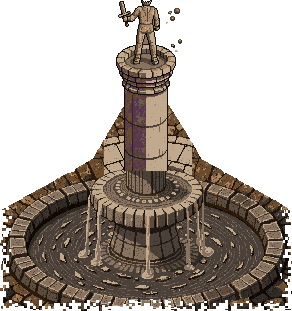
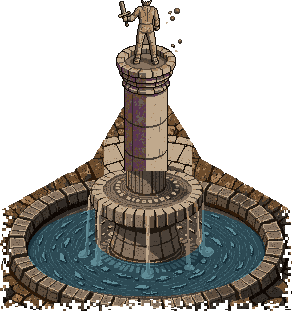
펠트 업그레이드 1단계: 분수에 물 (물결·물줄기·물소리 코드), 카메라 1.3배 (viewZoom 블록이 주석 안에 있어 안 먹던 것 고침), 노을 약하게·길 밝게·가장자리 덜 어둡게, 불 8개 깜빡임, 벤 노점 앞, 남문 「해 지면 문 닫음」, 그림 간판(임시 도형)
- tools/hd/build_felt.py: wet_fountain (마른 분수 → 물), road ×1.17 / plaza ×1.12, backdrop band .84, Ben NEAR (0,1), hd.live (fountain jets/pool, flick, signs, gateSign), viewZoom 1.3
- felt_live.js (new): code-drawn water/ripples/glints, flame flicker, shop picture signs, gate plank; positional water sound
- sfx_synth.js: SFX2.ambient(name, gain) looped bed
- world.js: optional FELT_LIVE hooks (props/over/grade/bgm), live signs skip the low sprite, camera zoom comment fix
- GAME_VER unchanged (saves kept)

Changed region(s): [[0.0925, 0.6656, 0.9247, 0.955]]

diff --git a/test128/world.js b/test128/world.js
@@ -386,7 +386,8 @@
       const sc = k / e.D, fx = d.x + e.dx, fy = d.y + e.dy, wl = fx - e.v.ax / e.D, wt = fy - e.v.ay / e.D, wr = wl + im.width / e.D;
       const behind = im.height / e.D > 28 && hero.y < fy && hero.y > wt + 6 && hero.x > wl + 4 && hero.x < wr - 4; d._a = (d._a ?? 1) + ((behind ? .5 : 1) - (d._a ?? 1)) * .2;
       const [sx, sy] = W2S(fx, fy); ctx.fillStyle = 'rgba(14,10,18,.3)'; ctx.beginPath(); ctx.ellipse(sx + 2 * k, sy - k, im.width * sc * .34, Math.max(2 * k, im.width * sc * .07), 0, 0, TAU); ctx.fill();
-      hdBlit(im, sx, sy, e.v.ax * sc, e.v.ay * sc, sc, e.flip, d._a); } }
+      hdBlit(im, sx, sy, e.v.ax * sc, e.v.ay * sc, sc, e.flip, d._a); }
+    if (FL()) for (const h of m.hds) if (h.live) FL().props(k, front, h, T); } // felt_live.js: fountain water, shop signs (code)
   function hdBlit(im, sx, sy, ax, ay, sc, flip, a) { // one picture at its foot point, no save/restore (owner 10-23 「최적화」: save/restore per prop was ~20 % of a frame)
     ctx.imageSmoothingEnabled = false; ctx.globalAlpha = a ?? 1; const X = Math.round(sx), Y = Math.round(sy), w = Math.round(im.width * sc), h = Math.round(im.height * sc);
     if (flip) { ctx.setTransform(-1, 0, 0, 1, X, Y); ctx.drawImage(im, -Math.round(ax), -Math.round(ay), w, h); ctx.setTransform(1, 0, 0, 1, 0, 0); } else ctx.drawImage(im, X - Math.round(ax), Y - Math.round(ay), w, h);
@@ -406,10 +407,11 @@
     const key = col + a + '|' + R; let c = LIGHTC[key]; if (c) return c; c = LIGHTC[key] = document.createElement('canvas'); c.width = c.height = R * 2; const g = c.getContext('2d'), gr = g.createRadialGradient(R, R, 0, R, R, R);
     const h = col.replace('#', ''), rr = parseInt(h.slice(0, 2), 16), gg = parseInt(h.slice(2, 4), 16), bb = parseInt(h.slice(4, 6), 16);
     gr.addColorStop(0, `rgba(${rr},${gg},${bb},${.32 * a})`); gr.addColorStop(.5, `rgba(${rr},${gg},${bb},${.12 * a})`); gr.addColorStop(1, `rgba(${rr},${gg},${bb},0)`); g.fillStyle = gr; g.fillRect(0, 0, R * 2, R * 2); return c; }
+  const FL = () => window.FELT_LIVE; // felt_live.js (owner 10-24 펠트 업그레이드), optional
   function drawHDLight(k) { const m = M(); if (!m || !m.hds) return; const v = S.view, T = m.T;
     for (const h of m.hds) { const [ox, oy] = W2S(h.gx * T, h.gy * T), im = HDIMG[h.ground], gw = im ? im.width / h.D * k : 0, gh = im ? im.height / h.D * k : 0;
       if (h.grade === 'dusk') { const ax = Math.max(ox, v.ox), ay = Math.max(oy, v.oy), bx = Math.min(ox + gw, v.ox + (EW + 1) * v.k), by = Math.min(oy + gh, v.oy + (EH + 1) * v.k);
-        if (bx > ax && by > ay) { ctx.save(); ctx.globalCompositeOperation = 'multiply'; ctx.fillStyle = 'rgb(206,196,222)'; ctx.fillRect(ax, ay, bx - ax, by - ay); ctx.restore(); } } // dusk: one grade over ground, props and characters alike
+        if (bx > ax && by > ay) { ctx.save(); ctx.globalCompositeOperation = 'multiply'; ctx.fillStyle = (FL() && FL().grade(h)) || 'rgb(206,196,222)'; ctx.fillRect(ax, ay, bx - ax, by - ay); ctx.restore(); } } // dusk: one grade over ground, props and characters alike
       if (h.webs) { ctx.save(); ctx.lineCap = 'round'; for (const [x1, y1, x2, y2, sag, al] of h.webs) { // 거미줄 실 (breadcrumbs toward the Arachne gate), swaying a little
         const [ax, ay] = W2S((h.gx + x1) * T, (h.gy + y1) * T), [bx, by] = W2S((h.gx + x2) * T, (h.gy + y2) * T), sw = Math.sin(S.t * 1.3 + x1) * .6 * k;
         ctx.strokeStyle = `rgba(226,224,236,${al ?? .55})`; ctx.lineWidth = Math.max(1, k / 3); ctx.beginPath(); ctx.moveTo(ax, ay); ctx.quadraticCurveTo((ax + bx) / 2 + sw, (ay + by) / 2 + (sag || 1) * T * k / 2, bx, by); ctx.stroke(); }
@@ -419,6 +421,7 @@
           for (let x = x0; x <= x1; x++) for (let j = 0; j < 2; j++) { const hsh = Math.sin((x * 12.9 + y * 78.2 + j * 37.7)) * 43758.5, f = hsh - Math.floor(hsh), u = (f * T + ph * (1 + f)) % T, a = Math.sin(S.t * 1.7 + f * 6.3);
             if (a < .2) continue; const [sx, sy2] = W2S((h.gx + x) * T + u, (h.gy + y) * T + 3 + j * 8 + f * 3); ctx.fillRect(Math.round(sx), Math.round(sy2), Math.round((2 + 3 * a) * k), Math.max(1, Math.round(k * .5))); } }
         ctx.restore(); }
+      if (h.live && FL()) FL().over(k, h, T); // felt_live.js: flames that breathe (code)
       if (h.phase2) { const b = S.bossRef, on = S.roomP2 !== undefined ? +S.roomP2 : b && !b.dead && b.phase === 2 ? 1 : 0; h._p2 = (h._p2 || 0) + (on - (h._p2 || 0)) * (S.roomP2Rate || .025); const p = h._p2; // turns with the boss' roar ('boss-phase' event), unravels on 'boss-dead' // 보스 2페이즈: the room turns (red threads close in, light goes red, cocoons sway overhead)
         if (p > .01) { const P = h.phase2; ctx.save(); ctx.globalCompositeOperation = 'multiply'; ctx.fillStyle = `rgba(${Math.round(255 - 30 * p)},${Math.round(255 - 40 * p)},${Math.round(255 - 36 * p)},1)`; ctx.fillRect(v.ox, v.oy, (EW + 1) * v.k, (EH + 1) * v.k); ctx.restore(); // floor keeps ~85 % of its stone colour: the red telegraphs must stay the brightest red (team lead)
           ctx.save(); ctx.globalCompositeOperation = 'lighter'; const seen = new Set(); for (const [x1, y1, x2, y2] of P.threads || []) for (const [x, y] of [[x1, y1], [x2, y2]]) { const key = x + ',' + y; if (seen.has(key)) continue; seen.add(key); // red only where the threads are tied (pillars, walls)
@@ -890,7 +893,7 @@
       if (f.type === 'heart' && Math.hypot(hero.x - f.x, hero.y - f.y) < 10) { const hv = Math.ceil(hero.maxHp * POT.heartPct / 100); hero.hp = Math.min(hero.maxHp, hero.hp + hv); syncTownHp(); addFx('text', f.x, f.y - 20, { text: '+' + hv, life: .7, color: '#ff8aa0' }); sfx('heart', .7); S.fx.splice(i, 1); continue; }
       if (f.t > f.life) S.fx.splice(i, 1); }
     // music: area theme / champion battle / boss (phase 2 track) / back to area theme after the clear
-    const e = S.engaged, arM = m.compose ? areaOf(m, hero.x, hero.y) : null; let want = (arM && arM.bgm) || m.bgm;
+    const e = S.engaged, arM = m.compose ? areaOf(m, hero.x, hero.y) : null; let want = (arM && arM.bgm) || m.bgm; if (FL()) want = FL().bgm(want, m, arM);
     if (m.type === 'boss') want = S.bossRef && !S.bossRef.dead ? (S.bossRef.phase === 2 ? m.bgm2 : m.bgm) : (m.bgmAfter || 'area01_forest');
     else if (e && !e.dead && e.D.champion && dist(e, hero) < 260) want = (arM && arM.battleBgm) || m.battleBgm || 'battle_champion';
     S.bgm = want;
@@ -1009,7 +1012,7 @@
   function camTarget() { const m = M(), b = S.introT > 0 && S.bossRef, L = !b && FEEL2 && S.look ? S.look : [0, 0], fx = b ? b.x : hero.x + L[0], fy = b ? b.y - 20 : hero.y - 10 + L[1]; return [clampC(fx - EW / 2, m.pw - EW), clampC(fy - EH / 2, m.ph - EH)]; } // boss intro: the camera looks at the boss first (art room 10-23)
   function snapCam() { if (M()) S.cam = camTarget(); }
   function viewZoomOf(m) { if (m && m.compose) { const a = areaOf(m, hero.x, hero.y); return (a && a.zoom) || 1; } return (m && m.viewZoom) || 1; }
-  function updateCam(dt) { if (!M()) return; { const v = FACEV[hero.face] || [0, 0], d = hero.moving && !hero.atk ? (hero.run ? LOOK.run : LOOK.walk) : 0, k = Math.min(1, dt * LOOK.k); S.look = S.look || [0, 0]; S.look[0] += (v[0] * d - S.look[0]) * k; S.look[1] += (v[1] * d * .7 - S.look[1]) * k; if (S.kick && !(S.freezeT > 0)) S.kick.t -= dt; } // look-ahead + hit kick clock { const t = viewZoomOf(M()); S.vz = S.vz || t; S.vz += (t - S.vz) * Math.min(1, dt * 2.5); if (Math.abs(t - S.vz) < .002) S.vz = t; EW = Math.ceil(LW / S.vz); EH = Math.ceil(LH / S.vz); } // town view: a little wider, eased at the area seam
+  function updateCam(dt) { if (!M()) return; { const v = FACEV[hero.face] || [0, 0], d = hero.moving && !hero.atk ? (hero.run ? LOOK.run : LOOK.walk) : 0, k = Math.min(1, dt * LOOK.k); S.look = S.look || [0, 0]; S.look[0] += (v[0] * d - S.look[0]) * k; S.look[1] += (v[1] * d * .7 - S.look[1]) * k; if (S.kick && !(S.freezeT > 0)) S.kick.t -= dt; } /* look-ahead + hit kick clock (the zoom block below sat inside this comment since 95da13a1: viewZoom never applied) */ { const t = viewZoomOf(M()); S.vz = S.vz || t; S.vz += (t - S.vz) * Math.min(1, dt * 2.5); if (Math.abs(t - S.vz) < .002) S.vz = t; EW = Math.ceil(LW / S.vz); EH = Math.ceil(LH / S.vz); } // town view: a little wider, eased at the area seam
     if (S.introT > 0) S.introT -= dt; const [tx, ty] = camTarget(); const k = 1 - Math.pow(S.introT > 0 ? .02 : .0005, dt); S.cam[0] += (tx - S.cam[0]) * k; S.cam[1] += (ty - S.cam[1]) * k; }
 
   // ---------------- render: low-res world, then display-res text/HUD ----------------
@@ -1058,7 +1061,7 @@
     for (const o of m.objs) {
       if (o.type === 'chest') list.push({ y: o.y + 6, f: () => drawSpr(g, SAVE.chests[o.id] ? 'chest_open' : 'chest', o.x, o.y + 7) });
       if (o.type === 'secret_wall' && SAVE.flags[o.flag]) list.push({ y: o.y - 9, f: () => { g.fillStyle = '#0b0806'; g.fillRect(o.x - 7, o.y - 9, 14, 17); g.fillStyle = '#3e362e'; for (const [dx, dy] of [[-7, 6], [-3, 7], [4, 6], [6, 7], [0, 8]]) g.fillRect(o.x + dx, o.y + dy, 2, 1); } }); // the broken wall: a dark gap + rubble
-      if (o.type === 'sign') list.push({ y: o.y + 6, f: () => drawSpr(g, 'sign', o.x, o.y + 8) });
+      if (o.type === 'sign' && !o.live) list.push({ y: o.y + 6, f: () => drawSpr(g, 'sign', o.x, o.y + 8) });
       if (o.type === 'heal') list.push({ y: o.y + 6, f: () => drawBench(g, o) });
       if (o.type === 'door_deco') list.push({ y: o.y - 8, f: () => drawSpr(g, o.sprite, o.x, o.y + 8) });
       if (o.type === 'hidden' && !SAVE.chests[o.id] && Math.sin(S.t * 3 + o.x) > .8) list.push({ y: o.y, f: () => { g.fillStyle = '#fff8c0'; g.fillRect(o.x - 1, o.y - 7, 2, 3); g.fillRect(o.x - 3, o.y - 6, 6, 1); } });

diff --git a/test128/felt_live.js b/test128/felt_live.js
@@ -1,0 +1,70 @@
+/* felt_live.js — Felt's live layer (owner 10-24 「펠트 업그레이드」): everything here is drawn by code each frame, nothing is baked.
+ *  - fountain: falling streams + rings + drifting glints over the (now wet) basin, and a quiet looping water sound by distance (SFX2.ambient)
+ *  - flicker: 5-8 flames (brazier, forge, plaza lamps, chapel candles) breathe on top of the baked light pools
+ *  - picture signs over the shops, the south gate's 「해 지면 문 닫음」 plank
+ * Data = maps/felt.json hd.live (written by tools/hd/build_felt.py). world.js calls FELT_LIVE.props / .over / .grade / .bgm. */
+(function () {
+  'use strict';
+  const TAU = Math.PI * 2, W = () => window.__worldHooks;
+  let lastSound = 0;
+  const hash = n => { const x = Math.sin(n * 127.1) * 43758.5453; return x - Math.floor(x); };
+  const noise = (t, s) => .5 + .27 * Math.sin(t * 7.3 + s) + .15 * Math.sin(t * 13.1 + s * 2.7) + .08 * Math.sin(t * 23.7 + s * 5.1); // flame: 3 sines, never in step
+  // fountain picture px -> world px
+  function fpx(h, F, px, py, T) { return [(h.gx + F.x) * T + (px - F.ax) / F.D, (h.gy + F.y) * T + (py - F.ay) / F.D]; }
+  function fountainProp(h) { return h._fq || (h._fq = (h.props || []).find(q => q.id === 'fountain')); }
+  function drawFountain(k, h, T) { const w = W(), ctx = w.ctx, S = w.S, F = h.live.fountain, q = fountainProp(h), a0 = q && q._a !== undefined ? q._a : 1, t = S.t;
+    const [cx, cy] = fpx(h, F, F.pool[0], F.pool[1], T), rx = F.pool[2] / F.D, ry = F.pool[3] / F.D, [sx, sy] = w.W2S(cx, cy);
+    if (sx < -200 * k || sy < -200 * k || sx > innerWidth * 3 || sy > innerHeight * 3) return;
+    const [px, py] = w.W2S(...fpx(h, F, F.ped[0], F.ped[1], T)), prx = F.ped[2] / F.D * k, pry = F.ped[3] / F.D * k;
+    ctx.save(); ctx.globalAlpha = a0; ctx.beginPath(); ctx.ellipse(sx, sy, rx * k, ry * k, 0, 0, TAU); ctx.clip(); // stay inside the basin, off the pedestal
+    ctx.beginPath(); ctx.rect(sx - rx * k - 4, sy - ry * k - 4, rx * 2 * k + 8, ry * 2 * k + 8); ctx.ellipse(px, py, prx, pry, 0, 0, TAU); ctx.rect(px - prx, py - 200 * k, prx * 2, 200 * k); ctx.clip('evenodd');
+    ctx.lineWidth = Math.max(1, k * .5);
+    for (const [jx, , jb] of F.jets) { const [bx, by] = w.W2S(...fpx(h, F, jx, jb, T)); // rings spreading where each stream lands
+      for (let i = 0; i < 3; i++) { const ph = (t * .55 + i / 3 + jx * .013) % 1, r = (1.5 + ph * 9) * k; ctx.strokeStyle = `rgba(200,226,232,${(.5 * (1 - ph)).toFixed(3)})`; ctx.beginPath(); ctx.ellipse(bx, by, r, r * .38, 0, 0, TAU); ctx.stroke(); } }
+    ctx.fillStyle = 'rgba(214,236,240,.55)'; for (let i = 0; i < 34; i++) { // glints drifting round the basin
+      const f = hash(i), rr = .35 + .6 * hash(i + 50), ang = f * TAU + t * (.12 + .1 * hash(i + 9)) * (i % 2 ? 1 : -1), tw = Math.sin(t * 2.3 + i * 1.7); if (tw < .15) continue;
+      const gx = sx + Math.cos(ang) * rx * rr * k, gy = sy + Math.sin(ang) * ry * rr * k; ctx.fillRect(Math.round(gx), Math.round(gy), Math.round((1.5 + 2.5 * tw) * k), Math.max(1, Math.round(k * .45))); }
+    ctx.restore();
+    ctx.save(); ctx.globalAlpha = a0; ctx.lineCap = 'round'; // falling streams (over the pedestal's lip, in front of it)
+    for (const [jx, jt, jb] of F.jets) { const [ax, ay] = w.W2S(...fpx(h, F, jx, jt, T)), [, by] = w.W2S(...fpx(h, F, jx, jb, T)), L = by - ay;
+      ctx.strokeStyle = 'rgba(170,206,216,.42)'; ctx.lineWidth = Math.max(1, k * .9); ctx.beginPath(); ctx.moveTo(ax, ay); ctx.lineTo(ax, by); ctx.stroke();
+      ctx.fillStyle = 'rgba(232,246,250,.85)'; for (let i = 0; i < 4; i++) { const ph = (t * 1.6 + i / 4 + jx * .07) % 1, yy = ay + L * ph * ph; ctx.fillRect(Math.round(ax - k * .4), Math.round(yy), Math.max(1, Math.round(k * .8)), Math.round(k * (1.2 + ph * 1.6))); }
+      ctx.fillStyle = 'rgba(232,246,250,.6)'; for (let i = 0; i < 3; i++) { const ph = (t * 2.2 + i / 3 + jx) % 1, dx = (hash(i + jx) - .5) * 5 * k * ph; ctx.fillRect(Math.round(ax + dx), Math.round(by - ph * (1 - ph) * 9 * k), Math.max(1, Math.round(k * .6)), Math.max(1, Math.round(k * .6))); } } // splash
+    ctx.restore();
+    // water sound: louder near the basin (quiet: a background murmur, never over the music)
+    const hero = w.hero, d = Math.hypot(hero.x - cx, hero.y - cy), g = Math.max(0, 1 - d / 170); lastSound = performance.now();
+    if (window.SFX2 && SFX2.ambient) SFX2.ambient('water', .32 * g * g); }
+  setInterval(() => { if (performance.now() - lastSound > 400 && window.SFX2 && SFX2.ambient) SFX2.ambient('water', 0); }, 300); // left Felt / paused: fade out
+  // picture signs (placeholders: a plank + a code icon) — swapped for art via hd.live.signs later
+  function icon(ctx, kind, x, y, u) { ctx.fillStyle = '#e8d6b0'; const R = (a, b, c, d) => ctx.fillRect(Math.round(x + a * u), Math.round(y + b * u), Math.max(1, Math.round(c * u)), Math.max(1, Math.round(d * u)));
+    if (kind === 'sword') { R(-.4, -3, .8, 4.6); R(-1.6, 1.4, 3.2, .7); R(-.4, 2.1, .8, 1.3); }
+    else if (kind === 'bag') { R(-2, -1, 4, 3.6); R(-1, -2.2, 2, 1.2); ctx.fillStyle = '#5a3a22'; R(-.4, .2, .8, 1.2); }
+    else if (kind === 'leaf') { ctx.fillStyle = '#9fc070'; ctx.beginPath(); ctx.ellipse(x, y, 1.6 * u, 3 * u, .6, 0, TAU); ctx.fill(); ctx.fillStyle = '#4d5a2c'; R(-.2, -2, .4, 4); }
+    else if (kind === 'mug') { R(-1.8, -2, 3, 4.2); R(1.2, -1, 1.2, .6); R(1.8, -1, .6, 2.2); R(1.2, .8, 1.2, .6); ctx.fillStyle = '#fff6dc'; R(-1.8, -2.6, 3, .8); }
+    else if (kind === 'anvil') { R(-2.6, -1.4, 5.2, 1.4); R(-1, 0, 2, 1.4); R(-2, 1.4, 4, 1); }
+    else if (kind === 'needle') { R(-.3, -3, .6, 6); ctx.strokeStyle = '#d04a4a'; ctx.lineWidth = Math.max(1, u * .5); ctx.beginPath(); ctx.moveTo(x, y - 2.4 * u); ctx.quadraticCurveTo(x + 3 * u, y - 1 * u, x + 1.5 * u, y + 2.5 * u); ctx.stroke(); } }
+  function plank(ctx, sx, sy, k, wpx, hpx, sway) { ctx.fillStyle = 'rgba(14,10,18,.35)'; ctx.fillRect(Math.round(sx - wpx / 2 * k + k), Math.round(sy + k), Math.round(wpx * k), Math.round(hpx * k));
+    ctx.fillStyle = '#5a3a22'; ctx.fillRect(Math.round(sx - wpx / 2 * k), Math.round(sy), Math.round(wpx * k), Math.round(hpx * k)); ctx.fillStyle = '#76583a'; ctx.fillRect(Math.round(sx - wpx / 2 * k), Math.round(sy), Math.round(wpx * k), Math.max(1, Math.round(k)));
+    ctx.fillStyle = '#2e2318'; ctx.fillRect(Math.round(sx - wpx / 2 * k), Math.round(sy + (hpx - 1) * k), Math.round(wpx * k), Math.max(1, Math.round(k))); }
+  function drawSigns(k, front, h, T) { const w = W(), ctx = w.ctx, S = w.S, hero = w.hero;
+    for (const [x, y, kind] of h.live.signs || []) { const wx = (h.gx + x) * T, wy = (h.gy + y) * T; if ((wy > hero.y) !== !!front) continue; const [sx, sy] = w.W2S(wx, wy), sw = Math.sin(S.t * 1.1 + x) * .5 * k;
+      ctx.fillStyle = '#2e2318'; ctx.fillRect(Math.round(sx - 5 * k), Math.round(sy - 14 * k), Math.round(10 * k), Math.max(1, Math.round(k * .8))); // bracket
+      ctx.save(); ctx.translate(sx + sw, sy - 13 * k); plank(ctx, 0, 0, k, 9, 9, 0); icon(ctx, kind, 0, 4.5 * k, k * .9); ctx.restore(); }
+    const G = h.live.gateSign; if (G) { const wx = (h.gx + G[0]) * T, wy = (h.gy + G[1]) * T; if ((wy > hero.y) === !!front) { const [sx, sy] = w.W2S(wx, wy); // 남문 plank: 「해 지면 문 닫음」
+      ctx.fillStyle = '#2e2318'; ctx.fillRect(Math.round(sx - 14 * k), Math.round(sy - 13 * k), Math.max(1, Math.round(k)), Math.round(13 * k)); ctx.fillRect(Math.round(sx + 13 * k), Math.round(sy - 13 * k), Math.max(1, Math.round(k)), Math.round(13 * k)); // two nails/legs
+      plank(ctx, sx, sy - 19 * k, k, 40, 10); ctx.fillStyle = '#9a7a52'; ctx.fillRect(Math.round(sx - 19 * k), Math.round(sy - 18 * k), Math.round(38 * k), Math.round(8 * k)); ctx.fillStyle = '#24180e'; ctx.font = `bold ${Math.max(6, Math.round(5 * k))}px sans-serif`; ctx.textAlign = 'center'; ctx.textBaseline = 'middle'; ctx.fillText('해 지면 문 닫음', sx, sy - 13.8 * k); ctx.textAlign = 'left'; ctx.textBaseline = 'alphabetic'; } } }
+  // flames: a glow that breathes over the baked pool + a small bright core
+  const GL = {}; function glow(col) { if (GL[col]) return GL[col]; const c = GL[col] = document.createElement('canvas'); c.width = c.height = 64; const g = c.getContext('2d'), gr = g.createRadialGradient(32, 32, 0, 32, 32, 32);
+    const r = parseInt(col.slice(1, 3), 16), gg = parseInt(col.slice(3, 5), 16), b = parseInt(col.slice(5, 7), 16); gr.addColorStop(0, `rgba(${r},${gg},${b},.55)`); gr.addColorStop(.4, `rgba(${r},${gg},${b},.18)`); gr.addColorStop(1, `rgba(${r},${gg},${b},0)`); g.fillStyle = gr; g.fillRect(0, 0, 64, 64); return c; }
+  function drawFlick(k, h, T, boost) { const w = W(), ctx = w.ctx, S = w.S; ctx.save(); ctx.globalCompositeOperation = 'lighter';
+    for (const [i, [x, y, r, col, a]] of (h.live.flick || []).entries()) { const n = noise(S.t, i * 3.1), [sx, sy] = w.W2S((h.gx + x) * T, (h.gy + y) * T), R = r * k * (.85 + .3 * n);
+      ctx.globalAlpha = Math.min(1, a * (.25 + .55 * n) * (boost || 1)); ctx.drawImage(glow(col), sx - R, sy - R * .8, R * 2, R * 1.6);
+      ctx.globalAlpha = Math.min(1, a * (.5 + .5 * n)); ctx.drawImage(glow('#fff0c0'), sx - 3 * k, sy - 3.5 * k - n * k, 6 * k, 6 * k); }
+    ctx.restore(); }
+  window.FELT_LIVE = {
+    props(k, front, h, T) { if (!h.live) return; if (!front && h.live.fountain) drawFountain(k, h, T); drawSigns(k, front, h, T); },
+    over(k, h, T) { if (!h.live) return; drawFlick(k, h, T, 1); },
+    grade(h) { return h.live ? 'rgb(224,216,232)' : null; },   // Felt's dusk grade: weaker than the old rgb(206,196,222) (owner 10-24 「노을 약하게」)
+    bgm(want) { return want; },
+  };
+})();

diff --git a/test128/sfx_synth.js b/test128/sfx_synth.js
@@ -49,5 +49,13 @@
     voice(ac, master, noiseBuf, k, vol, rate, now); }
   function render(list, secs) { const sr = 44100, oc = new OfflineAudioContext(1, Math.ceil(sr * secs), sr), m = oc.createGain(); m.gain.value = .45; m.connect(oc.destination); const nb = mkNoise(oc);
     for (const [k, t, v] of list) voice(oc, m, nb, k, v || 1, 1, t); return oc.startRendering().then(b => Array.from(b.getChannelData(0))); }
-  window.SFX2 = { play, setVol(v) { vol = Math.max(0, Math.min(1, v)); if (master) master.gain.value = .45 * vol; }, get vol() { return vol; }, render, has: k => !!DEF[k], names: Object.keys(DEF), get ready() { return !!ac; } };
+  // looped ambient beds (owner 10-24 펠트 「분수 물소리」): one per name, built on first use, level eased (no clicks); 0 = silent but kept
+  const AMB = {};
+  function ambient(name, g) { if (OFF || !ac || !noiseBuf) return; let a = AMB[name];
+    if (!a) { if (!(g > 0)) return; const src = ac.createBufferSource(); src.buffer = noiseBuf; src.loop = true; src.playbackRate.value = .5;
+      const lp = ac.createBiquadFilter(); lp.type = 'lowpass'; lp.frequency.value = 900; const pk = ac.createBiquadFilter(); pk.type = 'peaking'; pk.frequency.value = 2600; pk.Q.value = 1.4; pk.gain.value = 5;  // water: dark rush + a soft splash band
+      const lfo = ac.createOscillator(), lg = ac.createGain(); lfo.frequency.value = .23; lg.gain.value = 260; lfo.connect(lg); lg.connect(lp.frequency); lfo.start();
+      const out = ac.createGain(); out.gain.value = 0; src.connect(lp); lp.connect(pk); pk.connect(out); out.connect(master); src.start(); a = AMB[name] = { out, g: 0 }; }
+    g = Math.max(0, Math.min(1, g || 0)); if (Math.abs(g - a.g) < .005) return; a.g = g; a.out.gain.setTargetAtTime(g * .5, ac.currentTime, .25); }
+  window.SFX2 = { play, ambient, setVol(v) { vol = Math.max(0, Math.min(1, v)); if (master) master.gain.value = .45 * vol; }, get vol() { return vol; }, render, has: k => !!DEF[k], names: Object.keys(DEF), get ready() { return !!ac; } };
 })();

diff --git a/test128/index.html b/test128/index.html
@@ -1977,7 +1977,7 @@ Promise.all(jobs).then(()=>{
 <script>__js("title.js")</script><!-- [title] title screen + title BGM (town/title.js) -->
 <!-- [world] outside world: scene manager, Ys-style connected fields, dungeon, boss, minimap/map screen/route guide (world.js, world_mobs.js, world_nav.js, maps/*.json; see WORLD.md) -->
 <script>__js("sfx_synth.js")</script><!-- code-made combat SFX (field/dungeon) -->
-<script>__js("world_mobs.js")</script><script>__js("world_nav.js")</script><script>__js("world.js")</script>
+<script>__js("world_mobs.js")</script><script>__js("world_nav.js")</script><script>__js("world.js")</script><script>__js("felt_live.js")</script>
 <script>__js("tachie.js")</script><!-- [tachie] full-body dialogue portraits (town/tachie.js, assets/tachie) -->
 </body>
 </html>

diff --git a/test128/tools/hd/build_felt.py b/test128/tools/hd/build_felt.py
@@ -1,6 +1,6 @@
 """Felt v4 = the Grok composition built from the town-art room's final D=3 parts (owner 10-23 「그록 그림 대표」 + credits approved).
 Parts: handoff/claude/felt_grok_build/final/ (the town-art room) -> copied to assets/world/felt/ (fixed here, 0 credits):
-  fountain water darkened (canon = dry cracked fountain), the "o305" text on the weapon-shop sign wiped, the baked-in villager in front of the
+  fountain pool wet again (owner 10-24 펠트 업그레이드: 물이 도는 분수; ripples / falling water = code in felt_live.js), the "o305" text on the weapon-shop sign wiped, the baked-in villager in front of the
   general store hidden behind a well. Places = grok_foot x 0.56 world px (the parts are drawn at 0.7 x Grok size, so the gaps shrink with them).
 Ground = code (palette.json colours): packed-dirt roads traced from the key art as polylines, a cobbled plaza ring, dark earth with dead
   grass, a fenced grave lawn. Solid = each picture's bottom opaque width. Doors / marks / NPCs / clues / waystones / signs follow felt.json
@@ -23,12 +23,13 @@ rnd = random.Random(7)
 # ---------- parts (copy + 0-credit fixes) ----------
 def load(pid): return Image.open(os.path.join(SRC, PJ[pid]['img'])).convert('RGBA')
 IM = {pid: load(pid) for pid in PJ}
-def dry_fountain(im):   # (unused since the art room's statue fountain is dry)                               # blue water -> dark still water / cracked basin (colours from palette base24 + accent #2f4a52)
-    a = np.asarray(im).astype(float); r, g, b, al = a[..., 0], a[..., 1], a[..., 2], a[..., 3]
-    blue = (b > r + 18) & (b > g - 4) & (al > 0); L = (.3 * r + .59 * g + .11 * b) / 255
-    dark = np.array([23, 17, 12.]); teal = np.array([47, 74, 82.]); mud = np.array([62, 54, 46.])
-    t = np.clip((L - .25) / .6, 0, 1)[..., None]; col = dark * (1 - t) + np.where(t > .55, mud, teal) * t
-    a[..., :3] = np.where(blue[..., None], col, a[..., :3]); return Image.fromarray(a.clip(0, 255).astype(np.uint8), 'RGBA')
+def wet_fountain(im):   # owner 10-24 「분수 물」: the art room's dry, cracked basin -> still dark-teal water (shade kept from the picture); jets / ripples move in code (felt_live.js)
+    a = np.asarray(im).astype(float); h, w = a.shape[:2]; yy, xx = np.mgrid[0:h, 0:w]
+    r, g, b, al = a[..., 0], a[..., 1], a[..., 2], a[..., 3]; L = (.3 * r + .59 * g + .11 * b) / 255
+    pool = (((xx - 146) / 119.) ** 2 + ((yy - 250) / 46.) ** 2 < 1) & (al > 0)                       # basin (picture px), the pedestal cut out
+    ped = (((xx - 148) / 54.) ** 2 + ((yy - 236) / 27.) ** 2 < 1) | ((yy < 236) & (np.abs(xx - 148) < 54))
+    dark, light = np.array([22, 44, 54.]), np.array([96, 140, 150.]); t = np.clip((L - .12) / .45, 0, 1)[..., None]
+    a[..., :3] = np.where((pool & ~ped)[..., None], dark * (1 - t) + light * t, a[..., :3]); return Image.fromarray(a.clip(0, 255).astype(np.uint8), 'RGBA')
 def wipe_sign(im, box=(73, 116, 123, 137)):         # "o305" -> blank wooden plate
     a = np.asarray(im).copy(); x0, y0, x1, y1 = box; p = a[y0:y1, x0:x1, :3].astype(int); L = p.sum(2)
     base = np.median(p[L < np.percentile(L, 45)], 0).astype(np.uint8); hi = L > np.percentile(L, 45)
@@ -42,7 +43,7 @@ def ragged(im, r=14):                               # cut sides (opaque right up
         if edge.mean() > .12: dist = np.minimum(dist, d)
     keep = np.clip(dist / r + (nz - .5) * .9, 0, 1) > .35
     a[..., 3] = np.where(keep, a[..., 3], 0); return Image.fromarray(a, 'RGBA')
-IM['fountain'] = dry_fountain(IM['fountain'])
+IM['fountain'] = wet_fountain(IM['fountain'])
 for pid in IM:
     if PJ[pid].get('kind') == 'building' and pid not in ('linette', 'bl_house'): IM[pid] = ragged(IM[pid]); IM['west_a'] = wipe_sign(IM['west_a'])
 
@@ -131,16 +132,17 @@ img[yard] = np.where((n3[yard] > .45)[:, None], cols['g1'], np.where((n2[yard] >
 road = dr < 0; rim = (dr >= 0) & (dr < 3)
 rv = n2 * .7 + n3 * .3; t = np.clip((rv[road] - .25) / .55, 0, 1)[:, None]; img[road] = cols['r2'] * (1 - t) + cols['r3'] * t   # soft packed dirt
 img[rim] = cols['r0']; peb = road & (n3 > .8) & (vnoise(1.2, 4) > .7); img[peb] = cols['r5']; img[road & (vnoise(1.5, 5) > .86)] = cols['d4']
+img[road | rim] *= 1.17                                                    # owner 10-24: paths 15-20 % brighter (the roads read from the dirt)
 # plaza: cobble ring (stone cells by jittered grid), mortar in between, inner basin ring stones
 cell = 4.0; jx, jy = vnoise(4, 6) * 1.6, vnoise(4, 7) * 1.6
 cx, cy = (wxp + jx) / cell, (wyp + (np.floor((wxp + jx) / cell) % 2) * cell / 2 + jy) / cell
 fx, fy = cx - np.floor(cx), cy - np.floor(cy); mort = (fx < .16) | (fy < .2); shade = vnoise(cell, 8)
 plaza = pr < 1 + (n2 - .5) * .12
 stone = sel([shade < .35, shade < .6, shade < .82], [cols['s1'], cols['s2'], cols['s3']], cols['s4'])
-img[plaza] = np.where(mort[plaza][:, None], cols['s0'], stone[plaza]); img[plaza & (pr > .9) & (pr < .97)] = cols['s0']
+img[plaza] = np.where(mort[plaza][:, None], cols['s0'], stone[plaza]); img[plaza & (pr > .9) & (pr < .97)] = cols['s0']; img[plaza] *= 1.12
 # edges: darker toward the map border (no hard frame), backdrop band darker still
 edge = np.minimum.reduce([wxp, wyp, W * T - wxp, H * T - wyp + 400])   # no dark band at the bottom: the ash field joins there; img *= np.clip(.55 + edge / 60, .55, 1)[..., None]
-img[wyp < 175 * S] *= .7
+img[wyp < 175 * S] *= .84                                                  # backdrop band: gentler (owner 10-24, was .7)
 # snap to the town palette (base24 + accents)
 pal = np.array([hx(c) for c in (PAL['base24'] + PAL['accent8'] if PAL else [v for v in ('#201810',)])])
 BAYER = (np.array([[0, 8, 2, 10], [12, 4, 14, 6], [3, 11, 1, 9], [15, 7, 13, 5]]) / 16 - .47)[(yy % 4).astype(int), (xx % 4).astype(int)][..., None]   # ordered dither: fine 1-pixel grain instead of big blotches
@@ -170,7 +172,7 @@ for o in F['objects']:
         o['x'], o['y'] = {'f_mark_fountain': foot('fountain', 0, -2), 'f_mark_stall': foot('red_stall'), 'f_mark_gate': [EX[0], EX[1] - 1]}.get(i, [o['x'], o['y']])
     elif t == 'npc': o['x'], o['y'] = int(o['x'] * W / 56), int(o['y'] * H / 38)    # no near rule -> scaled spot (fixed below)
     objs.append(o)
-NEAR = {'f_rom': ['f_door_smith', -1, 1], 'f_sera': ['f_door_herb', 0, 1], 'f_ben': ['f_mark_stall', -4, 0],
+NEAR = {'f_rom': ['f_door_smith', -1, 1], 'f_sera': ['f_door_herb', 0, 1], 'f_ben': ['f_mark_stall', 0, 1],
         'f_linette': ['f_door_atelier', -4, 1], 'f_luca': ['f_mark_fountain', 5, 1],  # -4: the door's own tile is inside the building picture, she needs open ground to pace. 바르트·마르타·오스왈드는 집 안에만 있다
         'f_toby': ['f_mark_fountain', 2, 4], 'f_gas': ['f_mark_gate', -2, -5]}
 if not any(o['type'] == 'mark' for o in objs):
@@ -204,6 +206,20 @@ ax0, ay0 = P['fountain']['x'] + 3, P['fountain']['y'] - 1; ax1, ay1 = P['web_arc
 for i in range(14):
     t = (i / 13) ** .7; x = ax0 + (ax1 - ax0) * t; y = ay0 + (ay1 - ay0) * t; n = 1 + int(t * 3)
     for j in range(n): dx = (j - n / 2) * 1.1; WEBS.append([x + dx, y - 2 - (j % 2), x + dx + 1.2 + t, y - .2, .5 + t, .25 + .5 * t])
+# ---------- live layer (felt_live.js, owner 10-24 펠트 업그레이드): code-drawn water, flicker, signs; nothing baked ----------
+fo = P['fountain']
+FOUNTAIN = {'x': fo['x'], 'y': fo['y'], 'ax': fo['ax'], 'ay': fo['ay'], 'D': D, 'pool': [146, 250, 119, 46], 'ped': [148, 236, 54, 27],   # picture px (fountain.png)
+            'jets': [[88, 200, 255], [98, 208, 263], [147, 213, 277], [190, 207, 267], [202, 200, 250]]}                             # [x, top, bottom] of each falling stream
+FLICK = [lp(next(q['id'] for q in props if q['id'].startswith('brazier')), 0, -.6, 34, '#ff9a40', 1), lp('se_house', -1, -2, 30, '#ff8a3a', 1)]   # 5-8 live flames (brazier, forge, plaza lamps, chapel candles)
+FLICK += [[q['x'], q['y'] - 1.4, 16, '#ffc070', .8] for q in props if q['id'].startswith('lamp_') and 20 <= q['x'] <= 28]
+FLICK += [[q['x'], q['y'] - 2.2, 14, '#ffd090', .8] for q in props if q['id'].startswith('candelabra')]
+def door(i): return next(o for o in objs if o.get('id') == i)
+SIGNS = [[door(i)['x'] + dx, door(i)['y'] + dy, icon] for i, dx, dy, icon in (                                                  # 그림 간판 (placeholder shapes, code)
+    ('f_door_weapon', 1.6, -1.2, 'sword'), ('f_door_tool', 1.6, -1.0, 'bag'), ('f_door_herb', -1.4, -1.0, 'leaf'),
+    ('f_door_inn', 1.8, -1.2, 'mug'), ('f_door_smith', 1.8, -1.0, 'anvil'), ('f_door_atelier', 2.2, -1.0, 'needle'))]
+GATE_SIGN = [EX[0] + 2.35, EX[1] - 4.2]                                                                                        # 남문 「해 지면 문 닫음」 plank on the east gate post
+objs.append({'type': 'sign', 'id': 'f_sign_gate_night', 'x': EX[0] + 2, 'y': EX[1] - 5, 'text': '「해 지면 문 닫음」\n— 펠트 경비대', 'live': 1})
+LIVE = {'fountain': FOUNTAIN, 'flick': FLICK, 'signs': SIGNS, 'gateSign': GATE_SIGN}
 def nearest_floor(x, y, avoid=()):
     best = None
     for dy in range(-4, 5):
@@ -233,9 +249,10 @@ SPAWNS = {'default': [EX[0] + .5, EX[1] - 7.5, 'up'], 'world': [EX[0] + .5, EX[1
 for o in objs:
     if o.get('type') == 'door' and o.get('out'): SPAWNS[o['out']] = [o['x'] + .5, o['y'] + 1.5, 'up']  # step back out on the tile in front of that door
 m = {k: F[k] for k in ('type', 'area', 'region', 'title', 'bgm', 'battleBgm', 'tileset', 'tile') if k in F}
-m.update(id='felt', name='펠트', w=W, h=H, legend={'.': 'dirt', '#': 'cliff'}, solid=['#'], ground=[''.join(r) for r in rows], objects=objs,
+m.update(id='felt', name='펠트', viewZoom=1.3, w=W, h=H,   # viewZoom: owner 10-24 「카메라 1.3배」
+         legend={'.': 'dirt', '#': 'cliff'}, solid=['#'], ground=[''.join(r) for r in rows], objects=objs,
          spawns=SPAWNS,   # start inside the south gate (forge, chief's house, statue ahead); out-spawns = walk back out of an interior
-         hd={'D': GD, 'ground': 'assets/world/felt/ground.png', 'props': [dict(q, D=D) for q in props], 'lights': LIGHTS, 'webs': WEBS, 'smoke': SMOKE, 'grade': 'dusk'},
+         hd={'D': GD, 'ground': 'assets/world/felt/ground.png', 'props': [dict(q, D=D) for q in props], 'lights': LIGHTS, 'webs': WEBS, 'smoke': SMOKE, 'grade': 'dusk', 'live': LIVE},
          note='GENERATED by tools/hd/build_felt.py from the town-art room parts + maps/src/felt.json (doors / NPCs / clues) - do not hand-edit')
 json.dump(m, open(os.path.join(ROOT, 'maps', 'felt.json'), 'w'), ensure_ascii=False, indent=1)
 FF = json.load(open(os.path.join(ROOT, 'maps', 'field_felt.json')))
